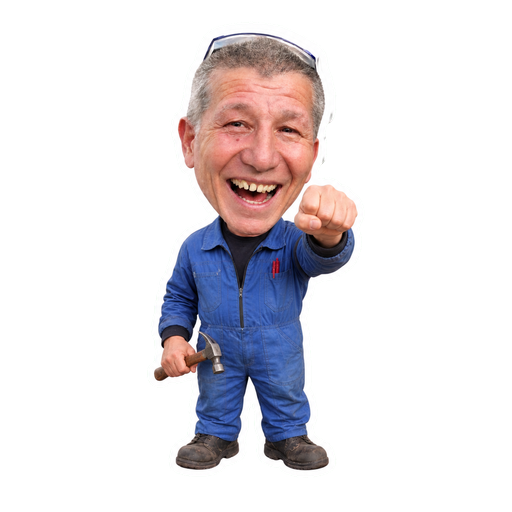
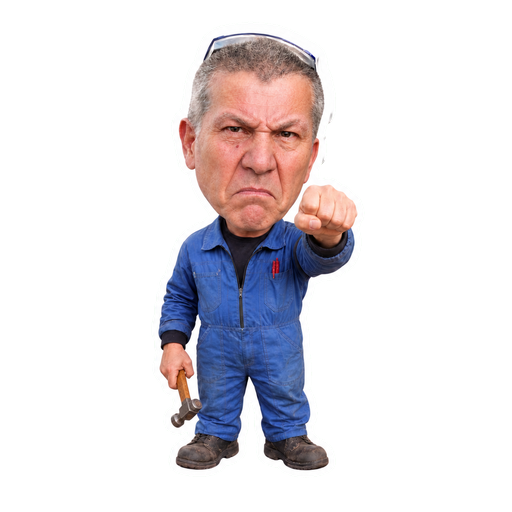
Animate mascot walking legs and add angry fist pose

Changed region(s): [[0.3438, 0.0625, 0.6562, 0.4688], [0.2812, 0.5625, 0.4375, 0.8438]]

diff --git a/styles.css b/styles.css
@@ -10171,8 +10171,26 @@ body.editor-profile #createTmcRequestButton.request-alert,
   transform-origin: 50% 92%;
 }
 
-.repair-master-mascot.is-walking img {
-  animation: repairMasterWalk .42s ease-in-out infinite alternate;
+.repair-master-walk-frame {
+  position: absolute;
+  inset: 0;
+  display: none !important;
+}
+
+.repair-master-mascot.is-walking .repair-master-action-frame {
+  display: none;
+}
+
+.repair-master-mascot.is-walking .repair-master-walk-frame {
+  display: block !important;
+}
+
+.repair-master-mascot.is-walking .walk-a {
+  animation: repairMasterStepA .44s steps(1, end) infinite;
+}
+
+.repair-master-mascot.is-walking .walk-b {
+  animation: repairMasterStepB .44s steps(1, end) infinite;
 }
 
 .repair-master-mascot.is-repairing img {
@@ -10226,9 +10244,14 @@ body.editor-profile #createTmcRequestButton.request-alert,
   animation: repairMasterFixedTarget .55s ease-in-out 3 !important;
 }
 
-@keyframes repairMasterWalk {
-  from { transform: rotate(-2deg) translateY(0); }
-  to { transform: rotate(2deg) translateY(-5px); }
+@keyframes repairMasterStepA {
+  0%, 49% { opacity: 1; transform: translateY(0) rotate(-1deg); }
+  50%, 100% { opacity: 0; transform: translateY(-3px) rotate(1deg); }
+}
+
+@keyframes repairMasterStepB {
+  0%, 49% { opacity: 0; transform: translateY(-3px) rotate(1deg); }
+  50%, 100% { opacity: 1; transform: translateY(0) rotate(-1deg); }
 }
 
 @keyframes repairMasterHammer {

diff --git a/app.js b/app.js
@@ -75,7 +75,7 @@ const PROFILE_KEY = "ppr-pwa-profile-v1";
 const USERS_KEY = "ppr-pwa-users-v1";
 const EDITOR_PREVIEW_ROLE_KEY = "ppr-editor-preview-role-v1";
 const EDITOR_PREVIEW_AREA_KEY = "ppr-editor-preview-area-v1";
-const APP_VERSION = "v265-serve-repair-master-assets";
+const APP_VERSION = "v266-walking-legs-angry-fist";
 const PRIMARY_ADMIN_ENGINEER_EMPLOYEE_ID = "87064091893";
 const PUBLIC_APP_URL = "https://ppr-control-ramazan.onrender.com";
 const APP_BADGE_KEY = "ppr-app-open-remarks-badge-v2";
@@ -16328,10 +16328,12 @@ function setupRepairMasterMascot() {
   mascot.innerHTML = `
     <div class="repair-master-bubble"></div>
     <div class="repair-master-sparks">✦</div>
-    <img src="assets/repair-master.png?v=${APP_VERSION}" alt="">
+    <img class="repair-master-action-frame" src="assets/repair-master.png?v=${APP_VERSION}" alt="">
+    <img class="repair-master-walk-frame walk-a" src="assets/repair-master-walk-a.png?v=${APP_VERSION}" alt="">
+    <img class="repair-master-walk-frame walk-b" src="assets/repair-master-walk-b.png?v=${APP_VERSION}" alt="">
   `;
   document.body.append(mascot);
-  const image = mascot.querySelector("img");
+  const image = mascot.querySelector(".repair-master-action-frame");
   const bubble = mascot.querySelector(".repair-master-bubble");
   let cycle = 0;
   let timer = 0;

diff --git a/sw.js b/sw.js
@@ -1,17 +1,19 @@
-const CACHE_NAME = "ppr-v265-serve-repair-master-assets";
+const CACHE_NAME = "ppr-v266-walking-legs-angry-fist";
 const ASSETS = [
   "./",
   "./index.html",
-  "./styles.css?v=265-serve-repair-master-assets",
+  "./styles.css?v=266-walking-legs-angry-fist",
   "./modules/compressor.js?v=288-print-request-pages",
   "./modules/shgrp.js?v=288-print-request-pages",
   "./modules/receiver.js?v=288-print-request-pages",
   "./modules/requests.js?v=288-print-request-pages",
   "./modules/comments.js?v=288-print-request-pages",
   "./modules/director.js?v=288-print-request-pages",
-  "./app.js?v=265-serve-repair-master-assets",
-  "./assets/repair-master.png?v=v265-serve-repair-master-assets",
-  "./assets/repair-master-fist.png?v=v265-serve-repair-master-assets",
+  "./app.js?v=266-walking-legs-angry-fist",
+  "./assets/repair-master.png?v=v266-walking-legs-angry-fist",
+  "./assets/repair-master-fist.png?v=v266-walking-legs-angry-fist",
+  "./assets/repair-master-walk-a.png?v=v266-walking-legs-angry-fist",
+  "./assets/repair-master-walk-b.png?v=v266-walking-legs-angry-fist",
   "./manifest.json",
   "./icon.svg",
   "./icon-180.png",

diff --git a/server.js b/server.js
@@ -46,7 +46,7 @@ const SESSION_TTL_MS = 30 * 24 * 60 * 60 * 1000;
 const LOGIN_WINDOW_MS = 5 * 60 * 1000;
 const LOGIN_MAX_ATTEMPTS = 15;
 const MAX_PHOTO_BYTES = 5 * 1024 * 1024;
-const SERVER_VERSION = "v265-serve-repair-master-assets";
+const SERVER_VERSION = "v266-walking-legs-angry-fist";
 const PRIMARY_ADMIN_ENGINEER_EMPLOYEE_ID = "87064091893";
 const FALSE_DOWNTIME_IDS = new Set(["downtime:1784527334957:1fd01bff99135"]);
 const REMOVED_EQUIPMENT_IDS = new Set(["16"]);
@@ -97,7 +97,7 @@ function isPublicStaticPath(relativePath = "") {
   const normalized = String(relativePath).split(path.sep).join("/");
   if (publicRootFiles.has(normalized)) return true;
   if (/^modules\/[A-Za-z0-9._-]+\.js$/.test(normalized)) return true;
-  if (/^assets\/repair-master(?:-fist)?\.png$/.test(normalized)) return true;
+  if (/^assets\/repair-master(?:-fist|-walk-[ab])?\.png$/.test(normalized)) return true;
   return normalized === "node_modules/jsqr/dist/jsQR.js";
 }
 

diff --git a/index.html b/index.html
@@ -13,7 +13,7 @@
   <link rel="icon" href="icon.svg?v=176" type="image/svg+xml">
   <link rel="apple-touch-icon" href="icon-180.png?v=176">
   <link rel="manifest" href="manifest.json">
-  <link rel="stylesheet" href="styles.css?v=265-serve-repair-master-assets">
+  <link rel="stylesheet" href="styles.css?v=266-walking-legs-angry-fist">
 </head>
 <body>
   <div id="loginOverlay" class="login-overlay">
@@ -260,7 +260,7 @@
   <script src="modules/requests.js?v=288-print-request-pages"></script>
   <script src="modules/comments.js?v=288-print-request-pages"></script>
   <script src="modules/director.js?v=288-print-request-pages"></script>
-  <script src="app.js?v=265-serve-repair-master-assets"></script>
+  <script src="app.js?v=266-walking-legs-angry-fist"></script>
 </body>
 </html>
 

diff --git a/tests/remark-confirmation.test.js b/tests/remark-confirmation.test.js
@@ -798,7 +798,11 @@ test("the repair mascot walks, fixes labels, and occasionally shows a fist", () 
   assert.match(style, /pointer-events: none/);
   assert.match(style, /@media \(prefers-reduced-motion: reduce\)/);
   assert.match(sw, /assets\/repair-master-fist\.png/);
-  assert.match(server, /\^assets\\\/repair-master\(\?:-fist\)\?\\\.png\$/);
+  assert.match(server, /repair-master\(\?:-fist\|-walk-\[ab\]\)\?/);
+  assert.match(app, /repair-master-walk-frame walk-a/);
+  assert.match(app, /repair-master-walk-frame walk-b/);
+  assert.match(style, /@keyframes repairMasterStepA/);
+  assert.match(style, /@keyframes repairMasterStepB/);
 });
 
 test("admin repair replaces the old resolver, awards only the performer, and cannot run twice", async () => {
